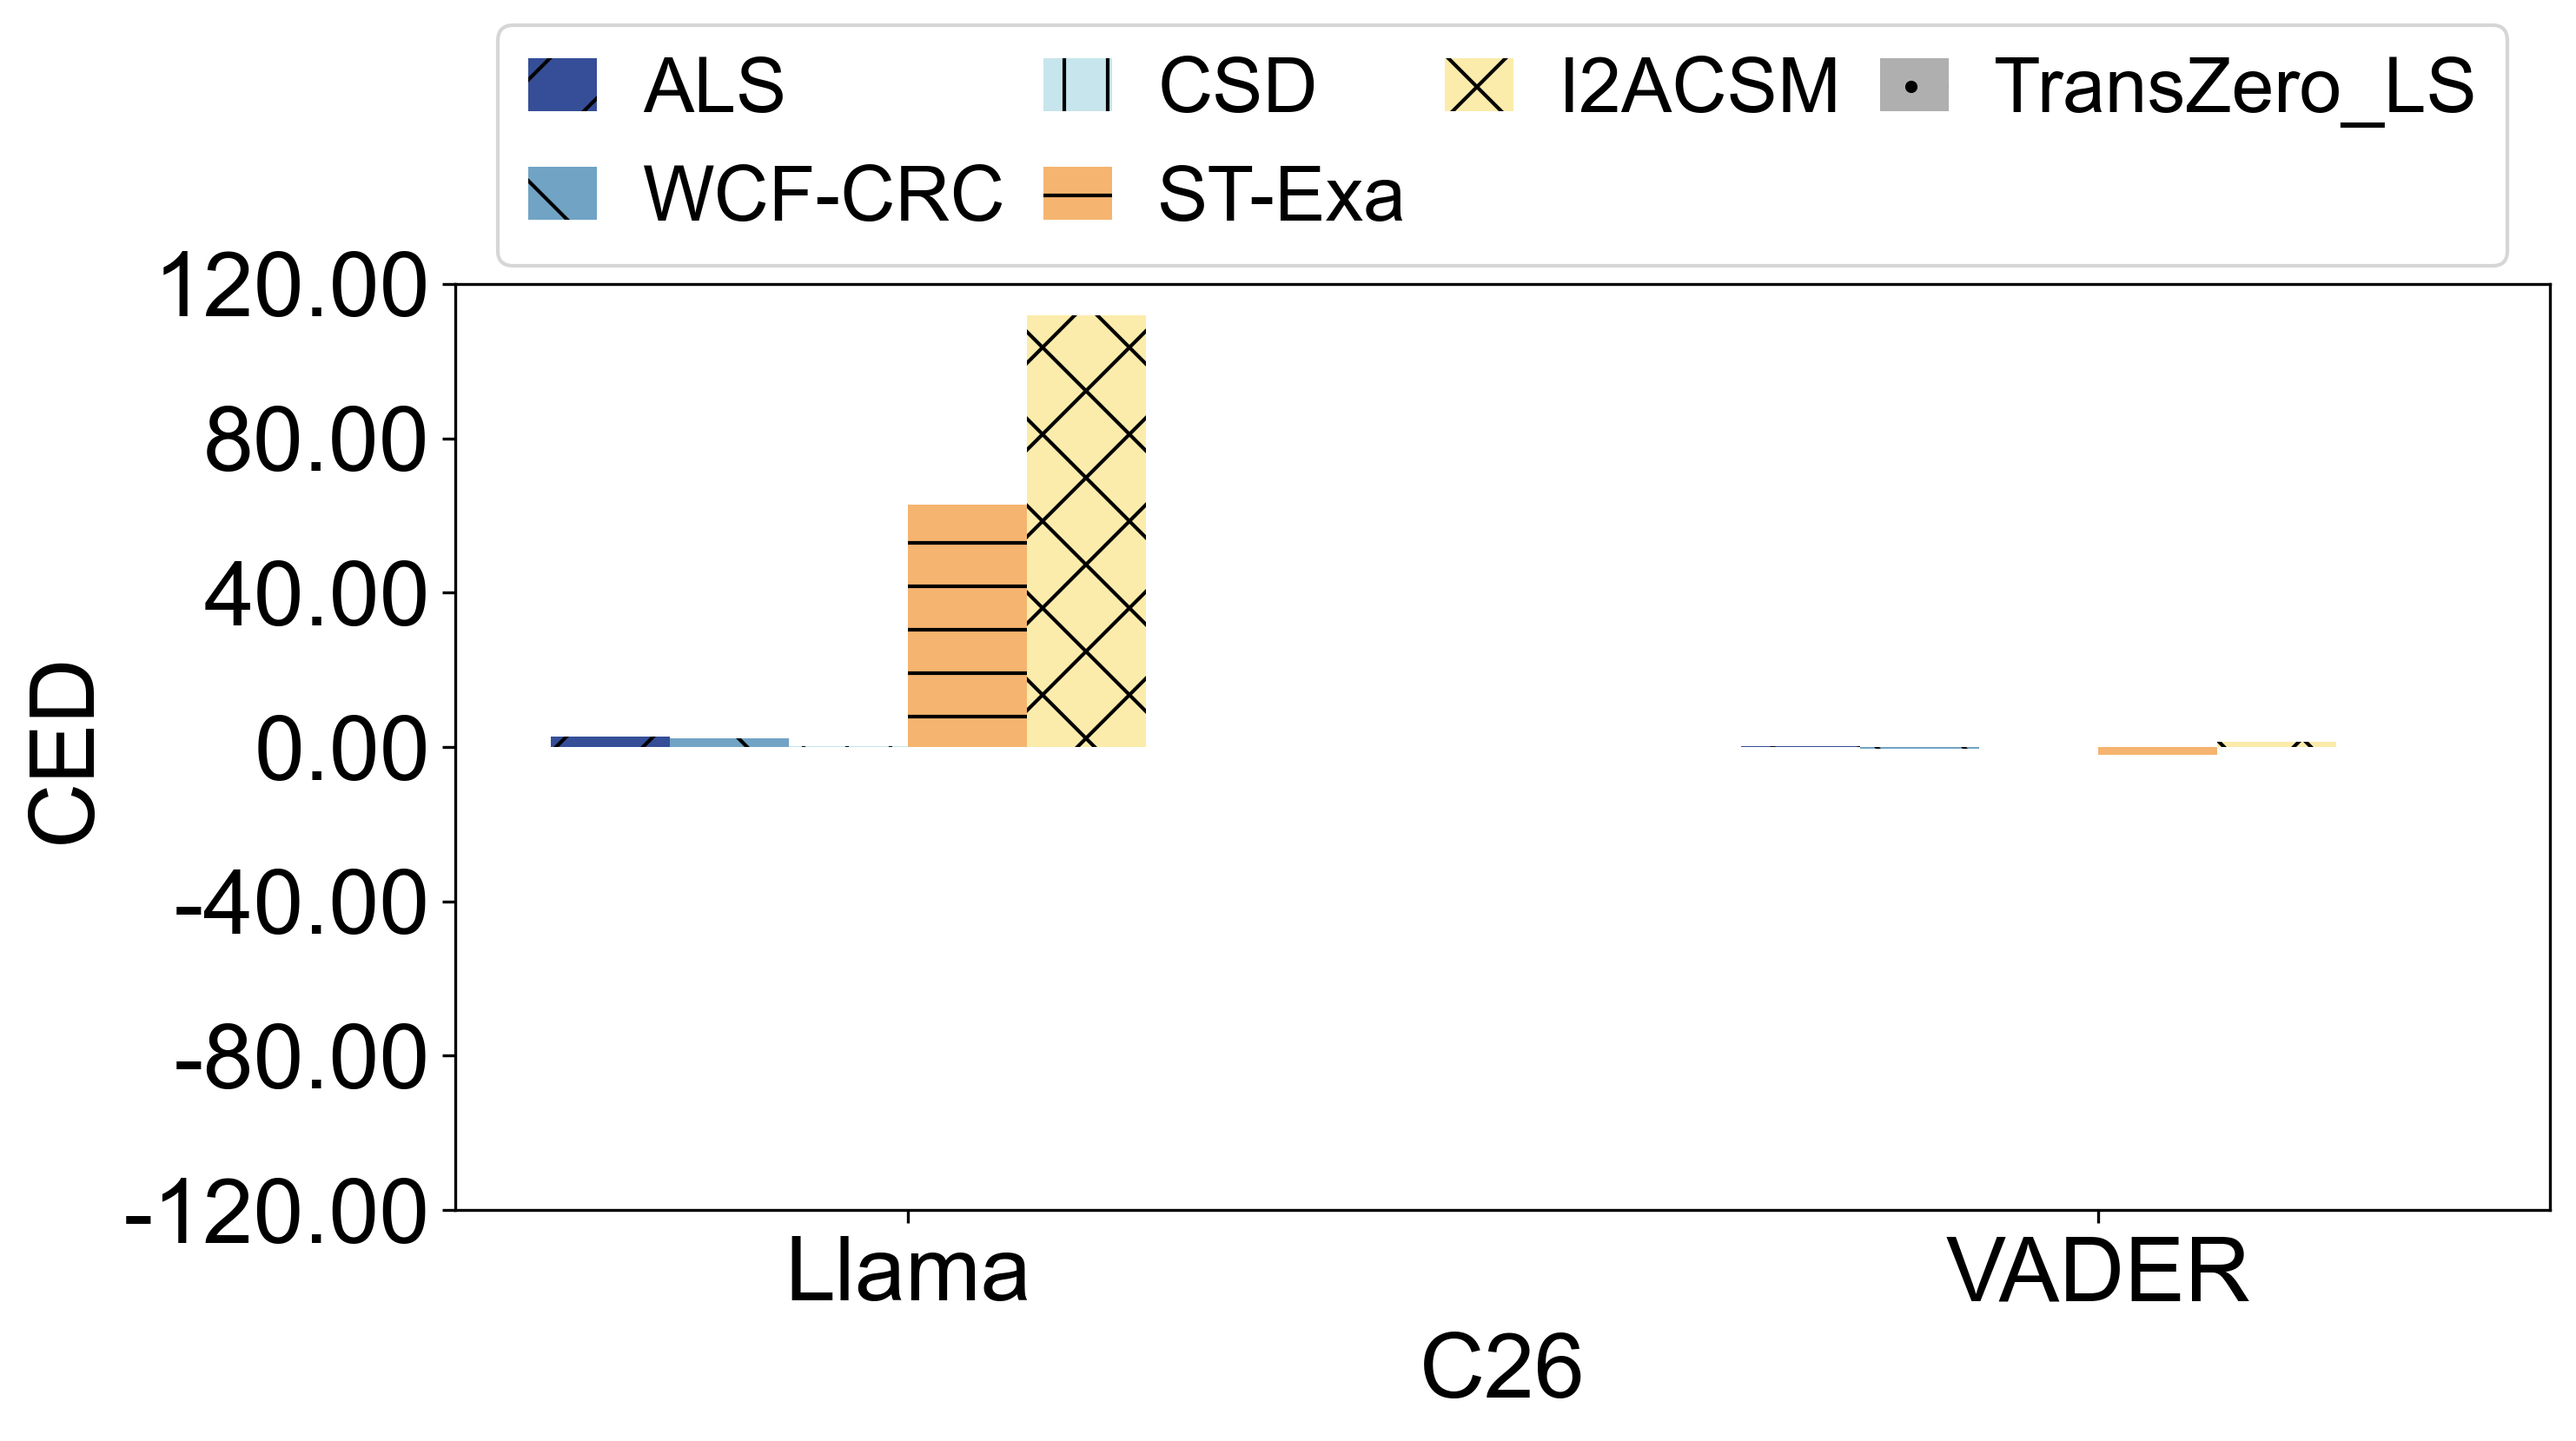
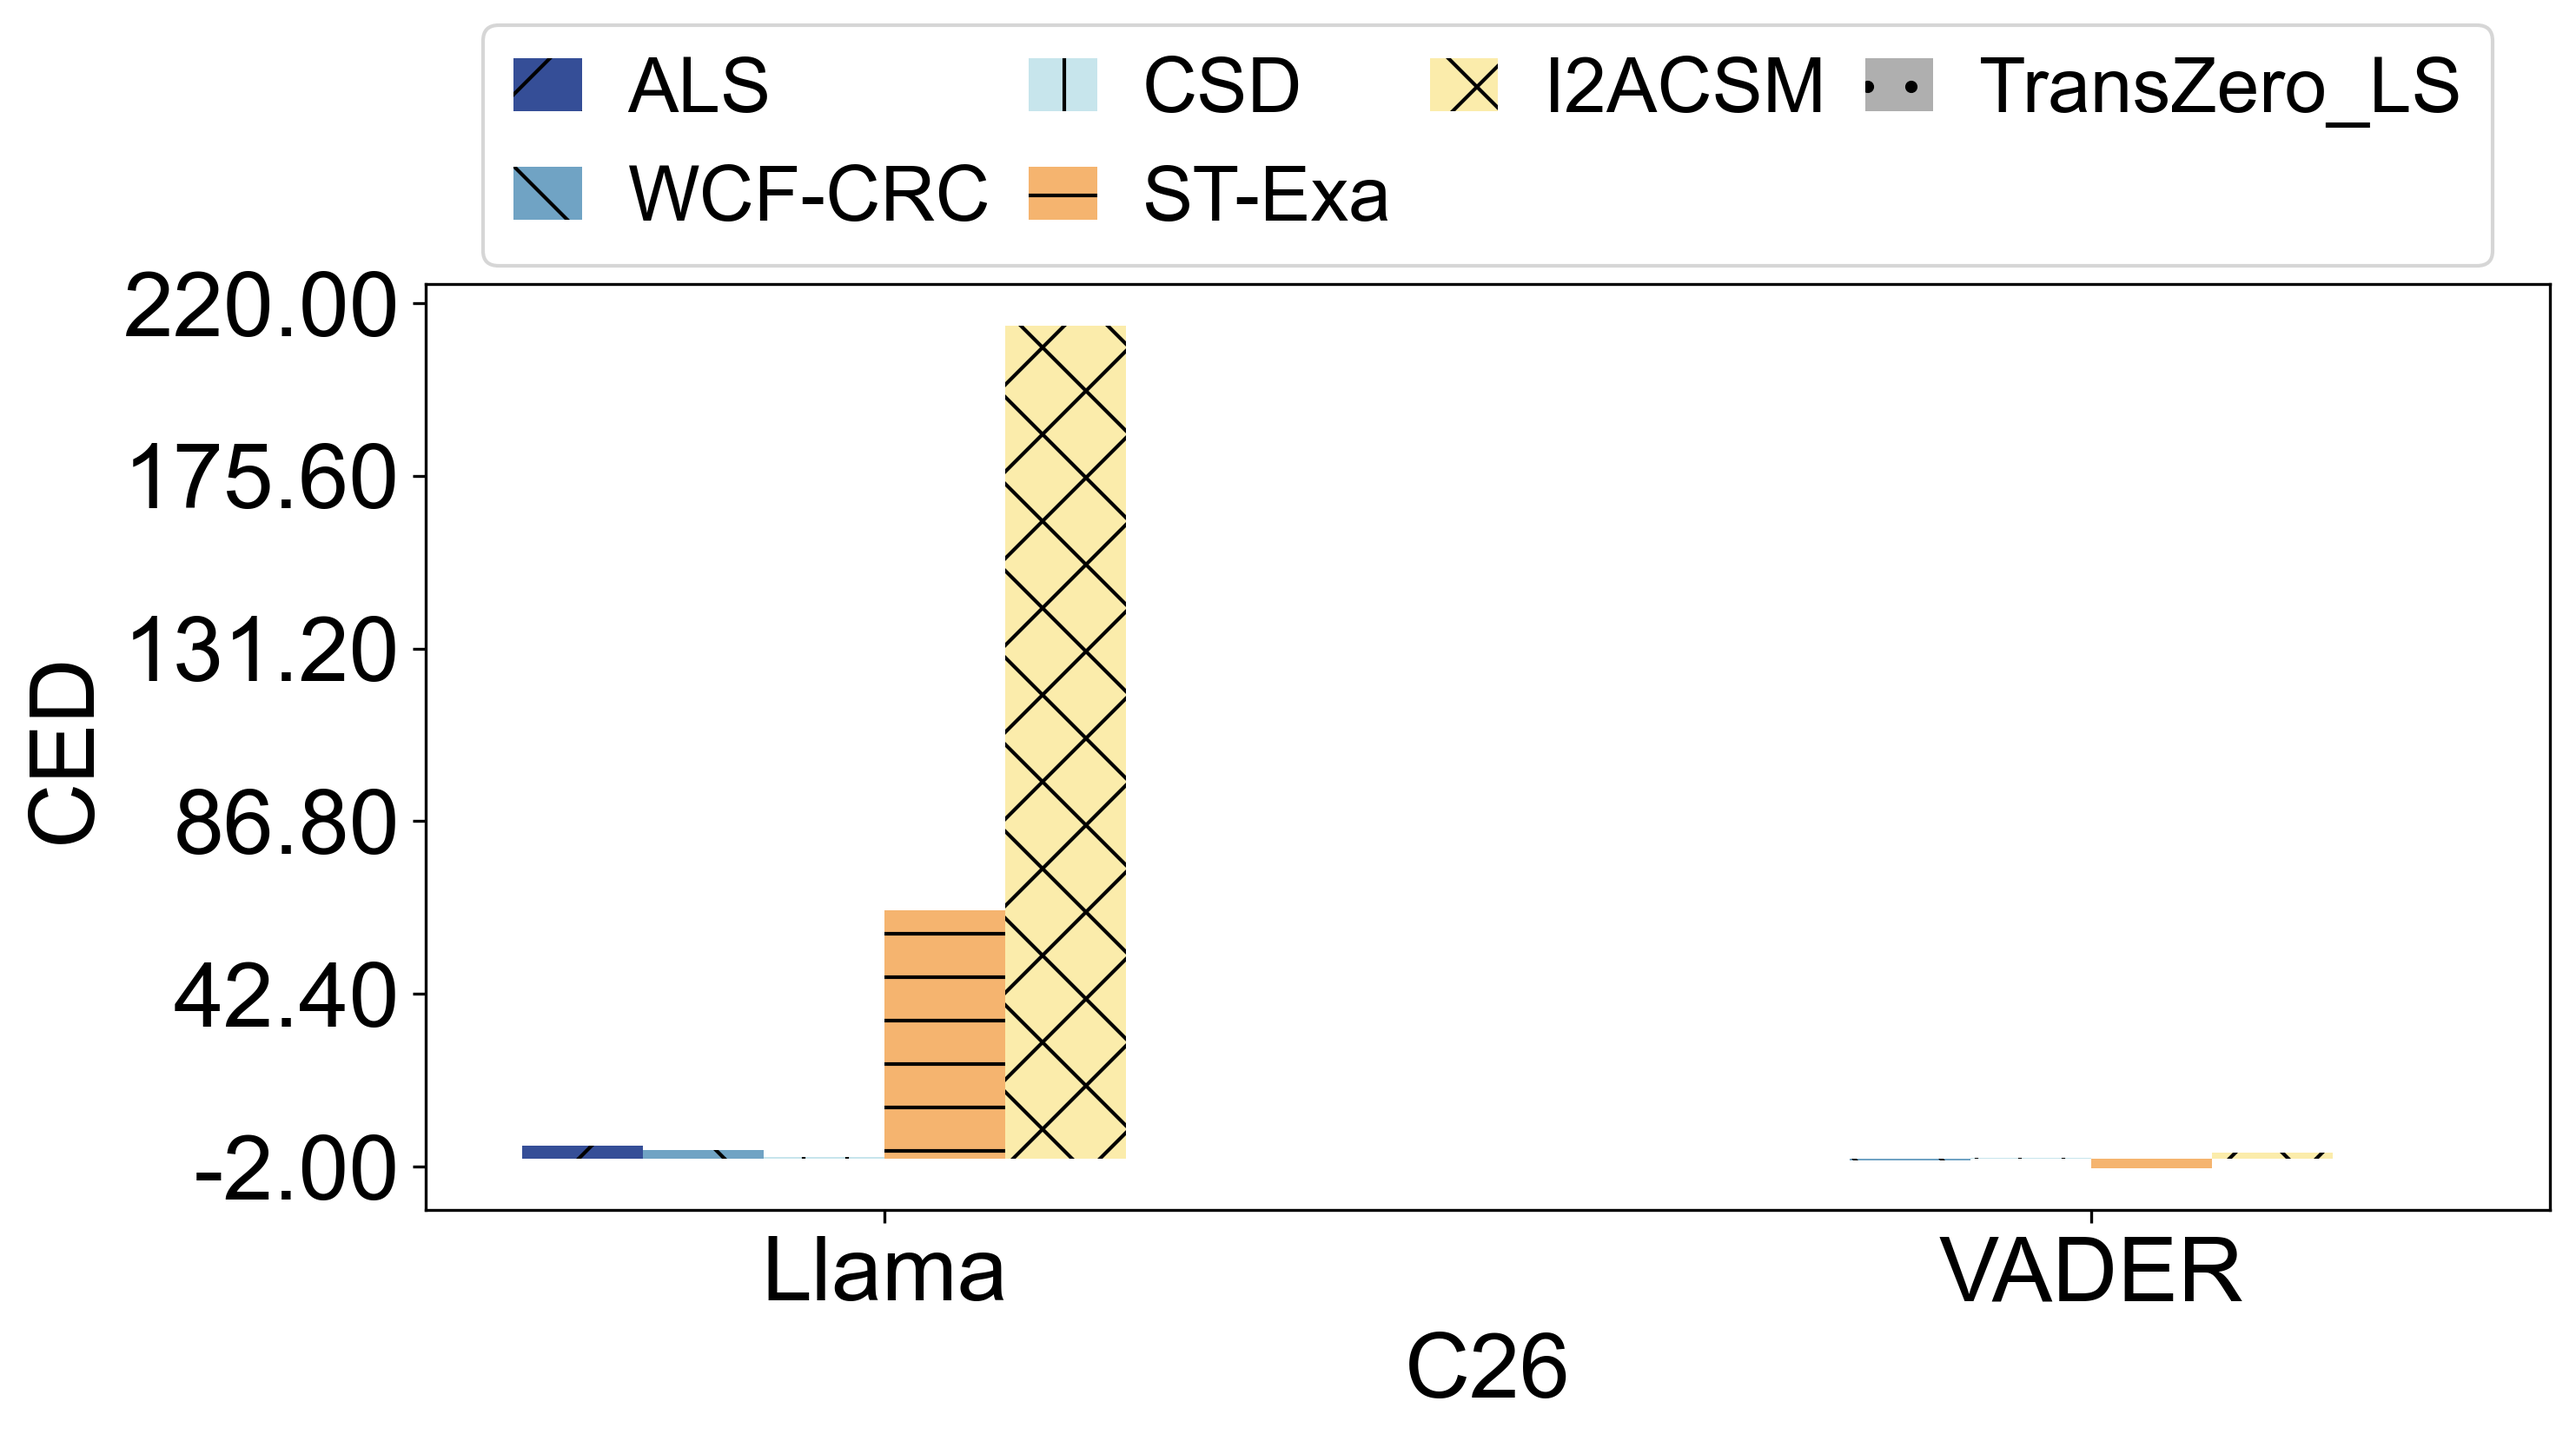
Finalize sentiment analysis figures

diff --git a/Visualization/Cohesiveness_Senti.py b/Visualization/Cohesiveness_Senti.py
@@ -110,11 +110,13 @@ def draw_graphs(dataset_llama_results, dataset_vader_results, dataset_label, alg
             ax.set_ylim(10**-1, 10**0)
             
             ax.set_yscale('symlog', linthresh=threshold)
-            y_ticks = [-1, -pow(10, -3), -pow(10, -6), 0, pow(10, -8), pow(10, -4), 1]
+            y_ticks = [-1.2, -pow(10, -3), -pow(10, -6), 0, pow(10, -8), pow(10, -4), 1.2]
             
             def format_func(value, tick_number):
-                if value in [-1, 0, 1]:
+                if value == 0:
                     return str(int(value))
+                elif value in [-1.2, 1.2]:
+                    return str(value)
                 exponent = int(np.log10(abs(value)))
                 sign = "-" if value < 0 else ""
                 return f"${sign}10^{{{exponent}}}$"
@@ -177,16 +179,16 @@ if __name__ == "__main__":
         if dataset == "BTW17":
             llama_results = load_llama_results(dataset, condense_result_dir, algo_list)
             vader_results = load_vader_results(dataset, condense_result_dir, algo_list)
-            draw_graphs(llama_results, vader_results, dataset_label, algo_list, algo_label_list, color_list, hatch_list, llama_threshold, font_size, -0.6, 0.6, 5)
+            draw_graphs(llama_results, vader_results, dataset_label, algo_list, algo_label_list, color_list, hatch_list, llama_threshold, font_size, -0.6, 0.1, 6)
         elif dataset == "Chicago_COVID":
             llama_results = load_llama_results(dataset, condense_result_dir, algo_list)
             vader_results = load_vader_results(dataset, condense_result_dir, algo_list)
-            draw_graphs(llama_results, vader_results, dataset_label, algo_list, algo_label_list, color_list, hatch_list, llama_threshold, font_size, -0.8, 0.8, 6)
+            draw_graphs(llama_results, vader_results, dataset_label, algo_list, algo_label_list, color_list, hatch_list, llama_threshold, font_size, -0.05, 0.2, 6)
         elif dataset == "Crawled_Dataset144":
             llama_results = load_llama_results(dataset, condense_result_dir, algo_sublist)
             vader_results = load_vader_results(dataset, condense_result_dir, algo_sublist)
-            draw_graphs(llama_results, vader_results, dataset_label, algo_sublist, algo_label_sublist, color_sublist, hatch_sublist, llama_threshold, font_size, -1.1, 1.1, 6)
+            draw_graphs(llama_results, vader_results, dataset_label, algo_sublist, algo_label_sublist, color_sublist, hatch_sublist, llama_threshold, font_size, -0.6, 0.9, 6)
         elif dataset == "Crawled_Dataset26":
             llama_results = load_llama_results(dataset, condense_result_dir, algo_sublist)
             vader_results = load_vader_results(dataset, condense_result_dir, algo_sublist)
-            draw_graphs(llama_results, vader_results, dataset_label, algo_sublist, algo_label_sublist, color_sublist, hatch_sublist, llama_threshold, font_size, -120, 120, 7)
+            draw_graphs(llama_results, vader_results, dataset_label, algo_sublist, algo_label_sublist, color_sublist, hatch_sublist, llama_threshold, font_size, -2, 220, 6)
